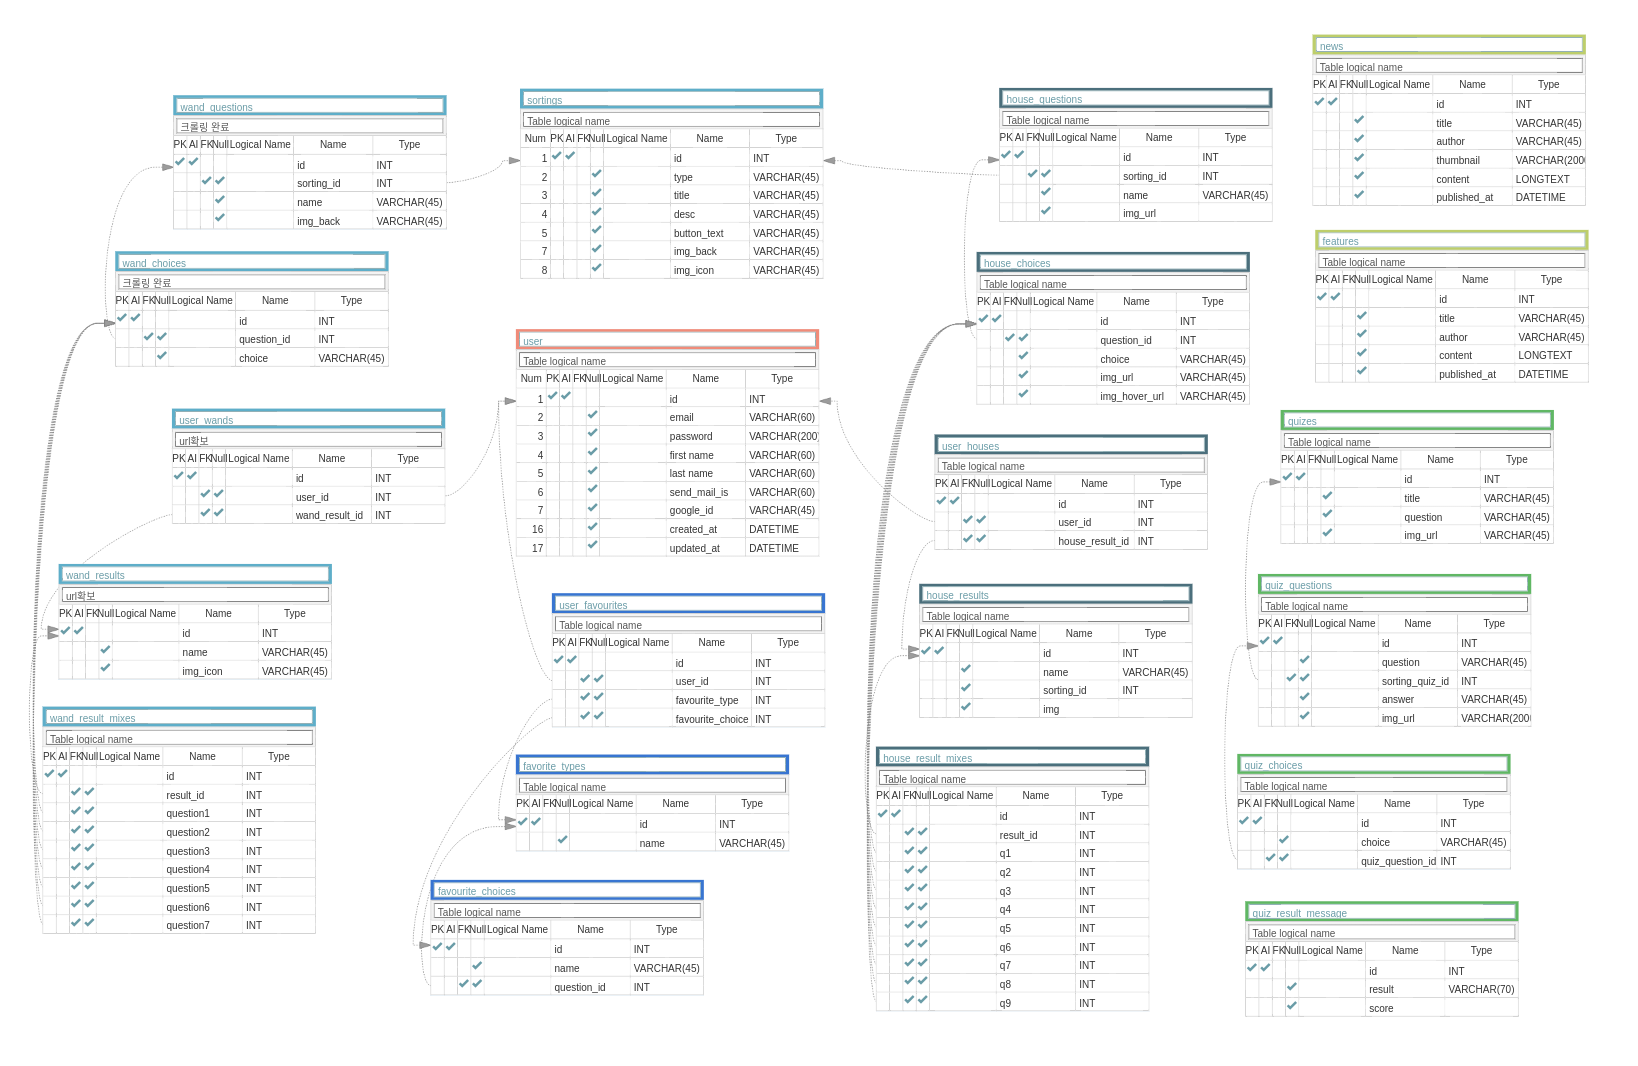
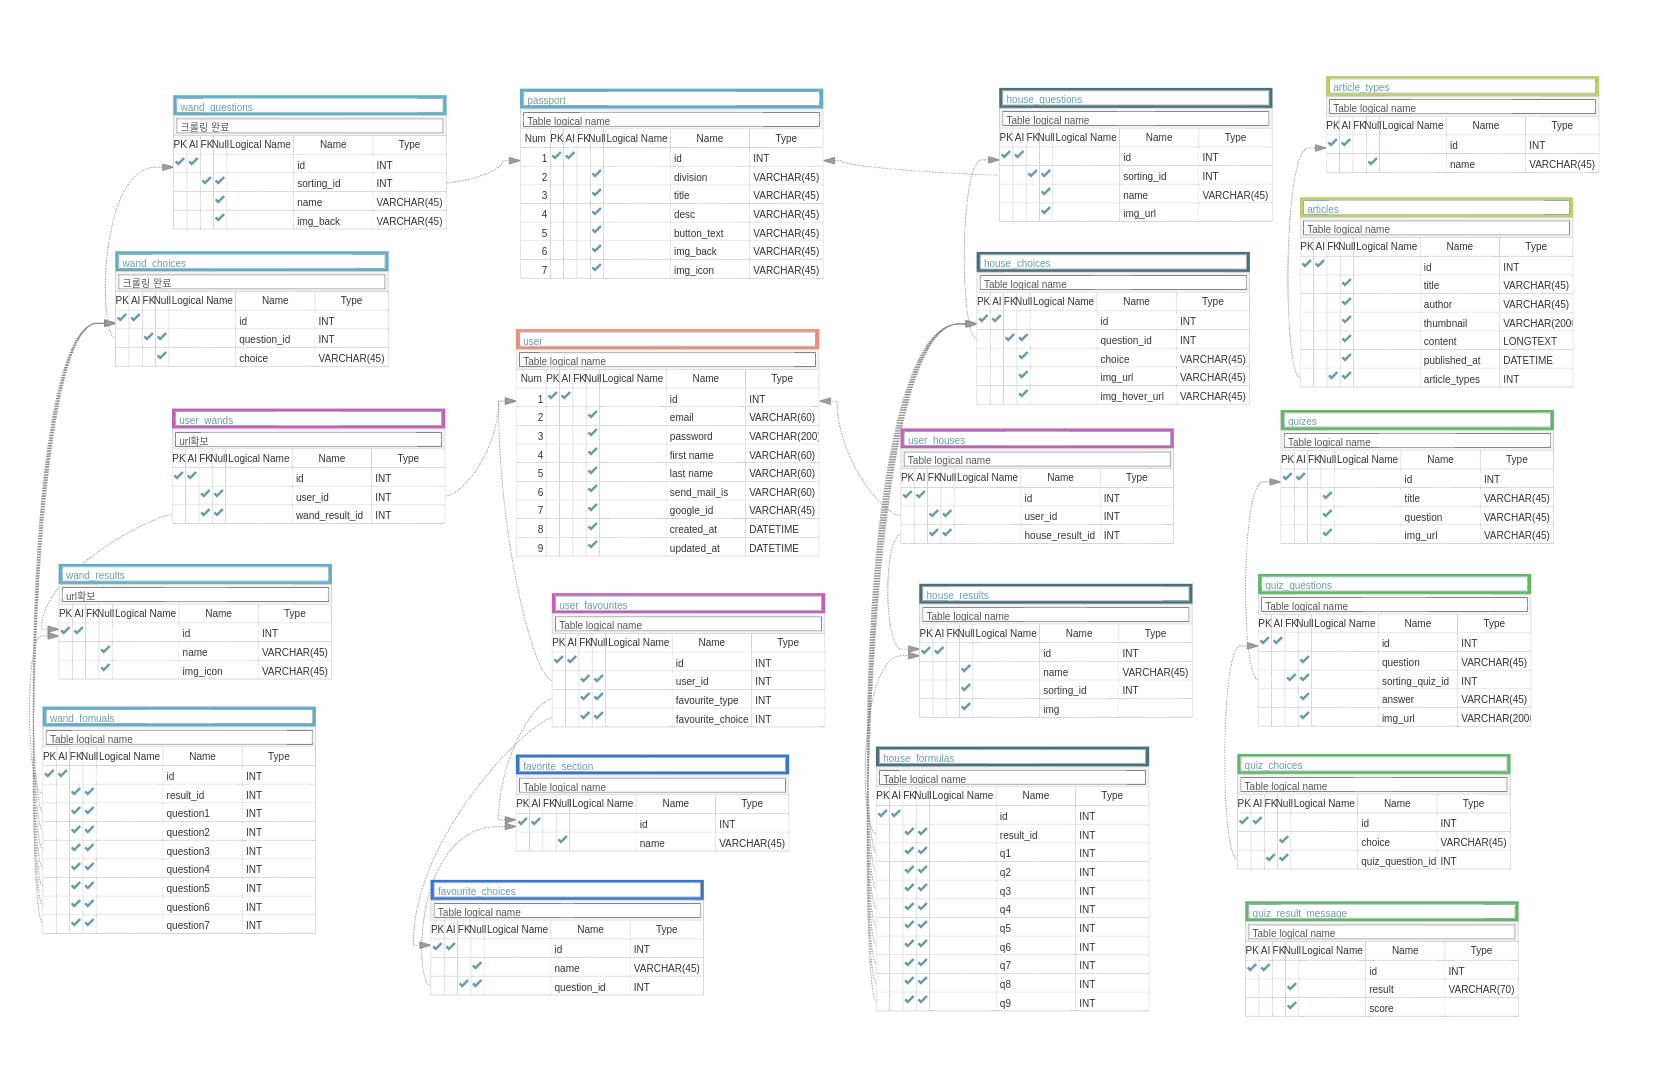
feat decorator and email-check view
- user/utils.py에 데코레이터 추가
- user/views.py에 이메일 체크 뷰 추가
- settings.py에 cors-header 추가
- modeling.png 수정

Changed region(s): [[0.2491, 0.031, 0.9652, 0.9597], [0.0, 0.3715, 0.2802, 0.8977], [0.0311, 0.0619, 0.2802, 0.3715]]

diff --git a/user/tests.py b/user/tests.py
@@ -5,7 +5,7 @@ import bcrypt
 from .models     import User
 from my_settings import SECRET_KEY
 
-from django.test import TestCase, Client
+from django.test import Client, TestCase
 
 class SignUpTest(TestCase):
 
@@ -20,6 +20,9 @@ class SignUpTest(TestCase):
             date_of_birth      = '1999-12-31',
             is_send_newsletter = True
         )
+
+    def tearDown(self):
+        User.objects.all().delete()
 
     def test_signupview_post_success(self):
         client = Client()
@@ -146,6 +149,9 @@ class SignInTest(TestCase):
 
         )
 
+    def tearDown(self):
+        User.objects.all().delete()
+
     def test_signinview_post_success(self):
         client = Client()
         user = {
@@ -214,6 +220,90 @@ class SignInTest(TestCase):
             '/user/sign-in',
             json.dumps(user),
             content_type='applications/json'
+        )
+
+        self.assertEqual(response.status_code, 400)
+        self.assertEqual(response.json(),
+            {
+                'message' : 'INVALID_KEYS'
+            }
+        )
+
+class EmailCheckTest(TestCase):
+
+    def setUp(self):
+        User.objects.create(
+            email              = 'dupl@dupl.com',
+            password           = bcrypt.hashpw(
+                'weWe1234'.encode('utf-8'),
+                bcrypt.gensalt()).decode('utf-8'),
+            first_name         = 'sign',
+            last_name          = 'in',
+            date_of_birth      = '1999-12-31',
+            is_send_newsletter = True
+        )
+
+    def tearDown(self):
+        User.objects.all().delete()
+
+    def test_emailcheckview_post_success(self):
+        client = Client()
+        data = {
+            'email' : 'post@post.com',
+        }
+        response = client.post(
+            '/user/email-check',
+            json.dumps(data),
+            content_type = 'applications/json'
+        )
+
+        self.assertEqual(response.status_code, 200)
+
+    def test_emailcheckview_post_duplicated_email(self):
+        client = Client()
+        data = {
+            'email' : 'dupl@dupl.com',
+        }
+        response = client.post(
+            '/user/email-check',
+            json.dumps(data),
+            content_type = 'applications/json'
+        )
+
+        self.assertEqual(response.status_code, 400)
+        self.assertEqual(response.json(),
+            {
+                'message' : 'DUPLICATED_EMAIL'
+            }
+        )
+
+    def test_emailcheckview_post_invaild_email(self):
+        client = Client()
+        data = {
+            'email' : 'dupdup.com',
+        }
+        response = client.post(
+            '/user/email-check',
+            json.dumps(data),
+            content_type = 'applications/json'
+        )
+
+        self.assertEqual(response.status_code, 400)
+        self.assertEqual(response.json(),
+            {
+                'message' : 'INVALID_EMAIL'
+            }
+        )
+
+    def test_emailcheckview_post_invaild_keys(self):
+        client = Client()
+        data = {
+            'emai' : 'dupdup.com',
+        }
+        response = client.post(
+            '/user/email-check',
+            json.dumps(data),
+            content_type = 'applications/json'
         )
 
         self.assertEqual(response.status_code, 400)

diff --git a/wezard_backend/settings.py b/wezard_backend/settings.py
@@ -25,6 +25,7 @@ INSTALLED_APPS = [
     'django.contrib.sessions',
     'django.contrib.messages',
     'django.contrib.staticfiles',
+    'corsheaders',
     'user',
     'article',
     'sorting',
@@ -36,6 +37,7 @@ MIDDLEWARE = [
     'django.middleware.common.CommonMiddleware',
     'django.contrib.messages.middleware.MessageMiddleware',
     'django.middleware.clickjacking.XFrameOptionsMiddleware',
+    'corsheaders.middleware.CorsMiddleware',
 ]
 
 ROOT_URLCONF = 'wezard_backend.urls'
@@ -58,16 +60,39 @@ TEMPLATES = [
 
 WSGI_APPLICATION = 'wezard_backend.wsgi.application'
 
-DATABASES = my_settings.DATABASES
-# Database
-# https://docs.djangoproject.com/en/3.0/ref/settings/#databases
 
-# DATABASES = {
-#     'default': {
-#         'ENGINE': 'django.db.backends.sqlite3',
-#         'NAME': os.path.join(BASE_DIR, 'db.sqlite3'),
-#     }
-# }
+MIDDLEWARE = [
+    'corsheaders.middleware.CorsMiddleware',
+]
+
+
+##CORS
+CORS_ORIGIN_ALLOW_ALL = True
+CORS_ALLOW_CREDENTIALS = True
+
+CORS_ALLOW_METHODS = (
+    'DELETE',
+    'GET',
+    'OPTIONS',
+    'PATCH',
+    'POST',
+    'PUT',
+)
+
+CORS_ALLOW_HEADERS = (
+    'accept',
+    'accept-encoding',
+    'authorization',
+    'content-type',
+    'dnt',
+    'origin',
+    'user-agent',
+    'x-csrftoken',
+    'x-requested-with',
+)
+
+
+DATABASES = my_settings.DATABASES
 
 
 # Password validation

diff --git a/user/views.py b/user/views.py
@@ -64,12 +64,26 @@ class SignInView(View):
 
                 if bcrypt.checkpw(data['password'].encode('utf-8'), user.password.encode('utf-8')):
                     token = jwt.encode({"user":user.email}, SECRET_KEY['secret'], algorithm = 'HS256')
-
                     return JsonResponse({"token" : token.decode('utf-8')}, status = 200)
 
                 return JsonResponse({"message" : "NO_MATCHING_INFO"}, status = 401)
 
             return JsonResponse({"message" : "NO_MATCHING_INFO"}, status = 400)
+
+        except KeyError:
+            return JsonResponse({"message" : "INVALID_KEYS"}, status = 400)
+
+class SignUpEmailCheckView(View):
+    def post(self, request):
+        data= json.loads(request.body)
+        try:
+            validate_email(data['email'])
+            if User.objects.filter(email = data['email']).exists():
+                return JsonResponse({"message" : "DUPLICATED_EMAIL"}, status = 400)
+            return HttpResponse(status = 200)
+
+        except ValidationError:
+            return JsonResponse({"message" : "INVALID_EMAIL"}, status = 400)
 
         except KeyError:
             return JsonResponse({"message" : "INVALID_KEYS"}, status = 400)

diff --git a/user/utils.py b/user/utils.py
@@ -1,0 +1,31 @@
+import jwt
+
+from .models import User
+from my_settings import SECRET_KEY
+
+from django.http import JsonResponse
+
+def login_required(func):
+
+    def wrapper(self, request, *args, **kwargs):
+        token  = request.headres.get('Authorization', None)
+        secret = SECRET_KEY['secret']
+
+        if token:
+            try:
+                decode = jwt.decode(token, secret, algorithm = ['HS256'])
+                user_email = decode.get('email', None)
+                user = User.objects.get(email = user_email)
+                request.user = user
+
+            except jwt.DecodeError:
+                return JsonResponse({"message" : "INVALID_TOKEN"}, status = 403)
+
+            except User.DoesNotExists:
+                return JsonResponse({"message" : "NO_EMAIL_EXISTS"}, status = 401)
+
+            return func(self, request, *args, **kwargs)
+
+        return JsonResponse({"message" : "LOGIN_REQUIRED"}, status = 401)
+
+    return wrapper

diff --git a/user/urls.py b/user/urls.py
@@ -1,8 +1,9 @@
 from django.urls import path
 
-from .views import SignUpView, SignInView
+from .views import SignUpView, SignUpEmailCheckView, SignInView
 
 urlpatterns = [
     path('/sign-up', SignUpView.as_view()),
+    path('/email-check', SignUpEmailCheckView.as_view()),
     path('/sign-in', SignInView.as_view()),
 ]

diff --git a/README.md b/README.md
@@ -2,12 +2,12 @@
 
 [해리포터 팬사이트](https://www.wizardingworld.com) 클론 프로젝트
 - 기간    : 2020.03.09 - 2020.03.20
-- 팀 구성 : 프론트엔드 3명, 백엔드 2명 (총 5명_
+- 팀 구성 : 프론트엔드 3명, 백엔드 2명 (총 5명_)
 
 &nbsp;
 &nbsp;
 &nbsp;
 
 # DB Modeling
-![image](weazrd__DB_Modeling.png_)
+![image](wezard__DB_Modeling.png_)
 
